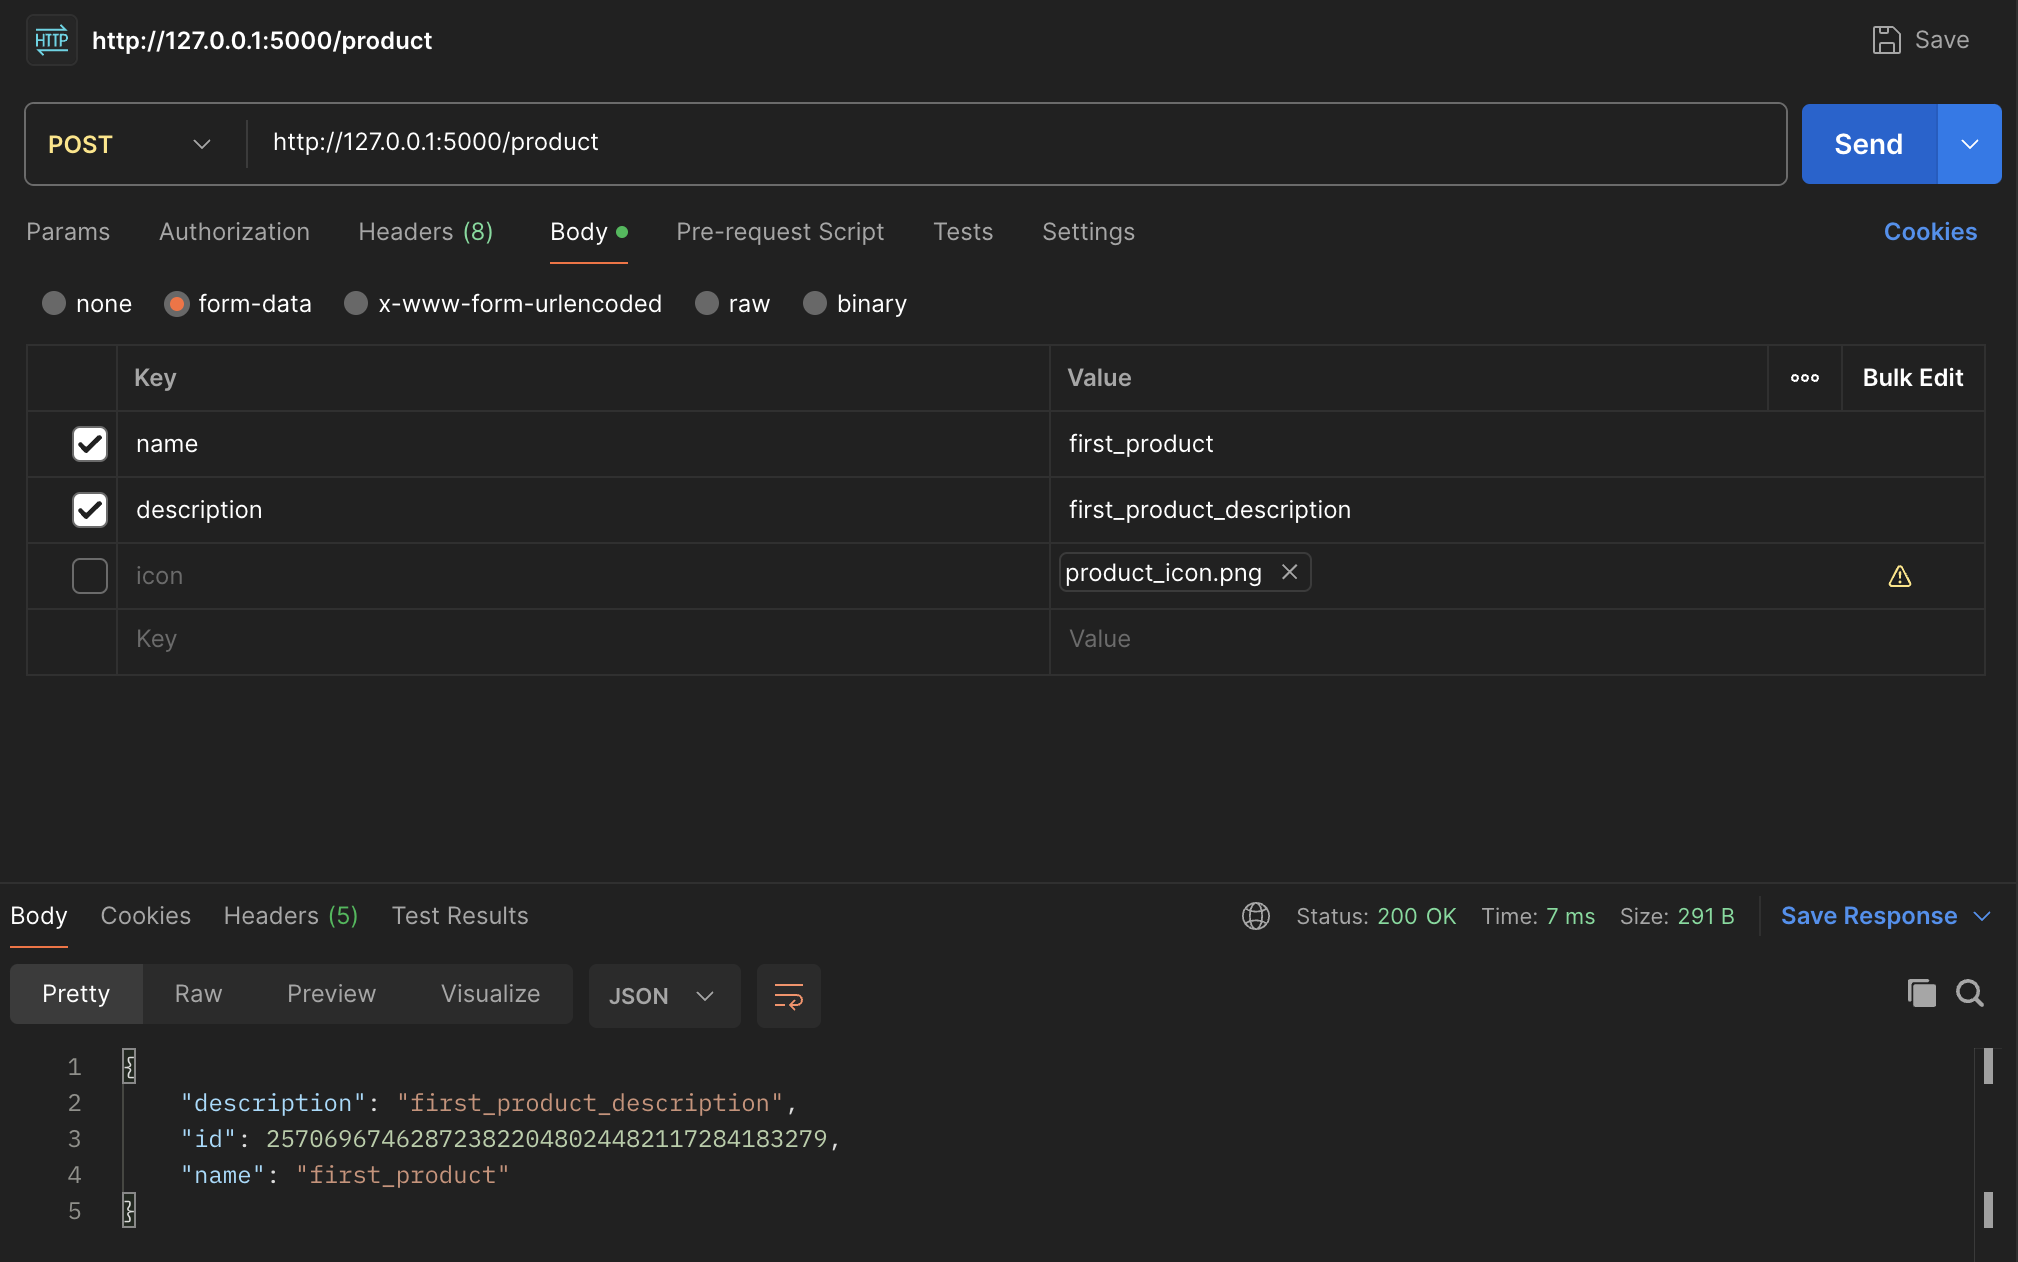
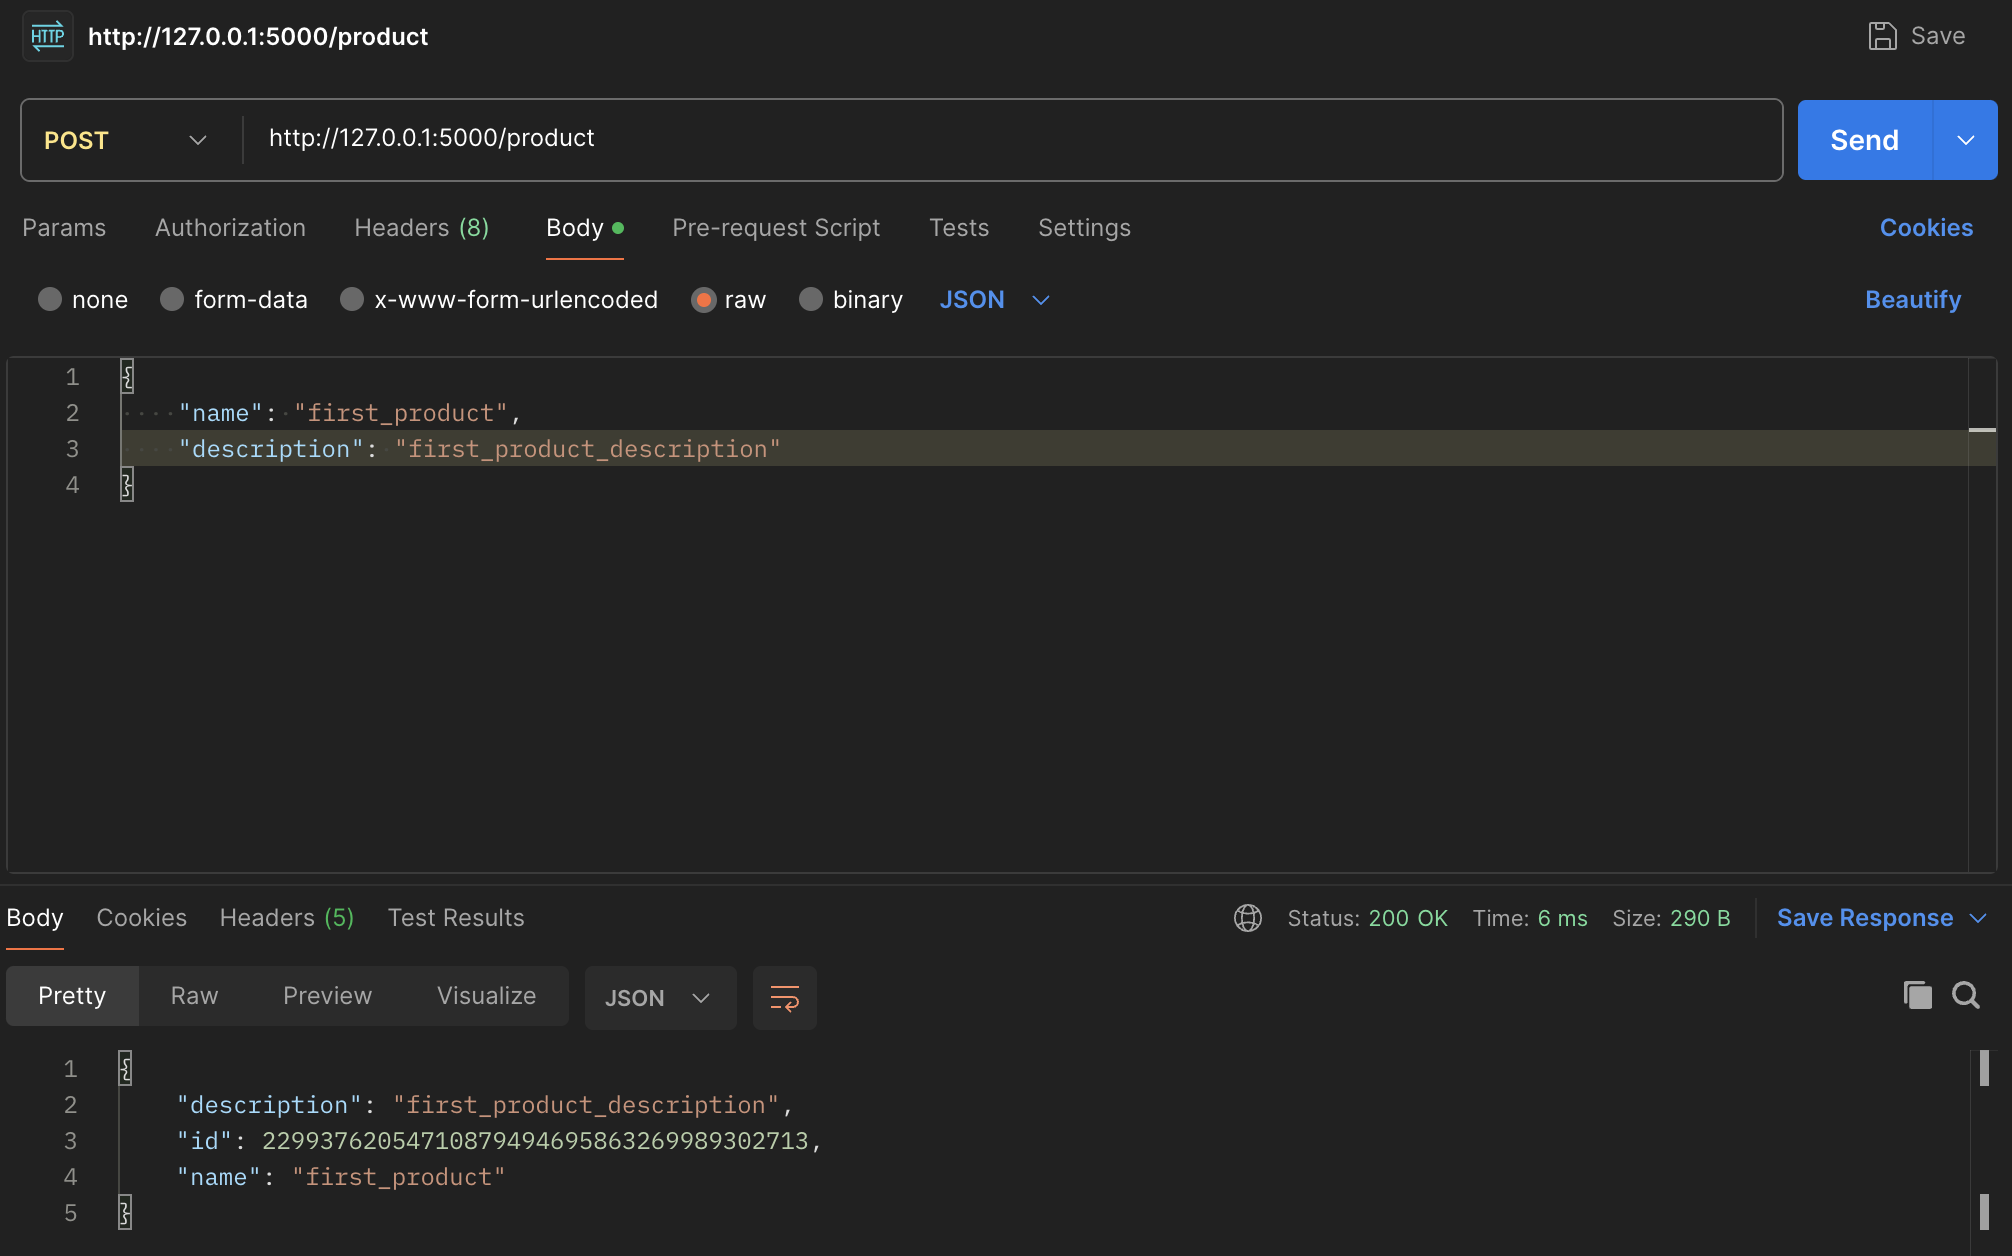
some changes

diff --git a/lab02/rest_server.py b/lab02/rest_server.py
@@ -20,7 +20,6 @@ def debug():
 
 @app.route('/product', methods=['POST'])
 def add_product():
-    print("hello")
     try:
         if request.is_json:
             data = request.get_json()

diff --git a/lab02/lab02.md b/lab02/lab02.md
@@ -63,6 +63,9 @@
 
 #### Демонстрация работы
 ##### Post product
+
+`поддерживается и json-формат и form-data (поэтому в примерах присутствуют оба)`
+
 <img src="screens/screen1.png" width=500 />
 
 <img src="screens/screen2.png" width=500 />
